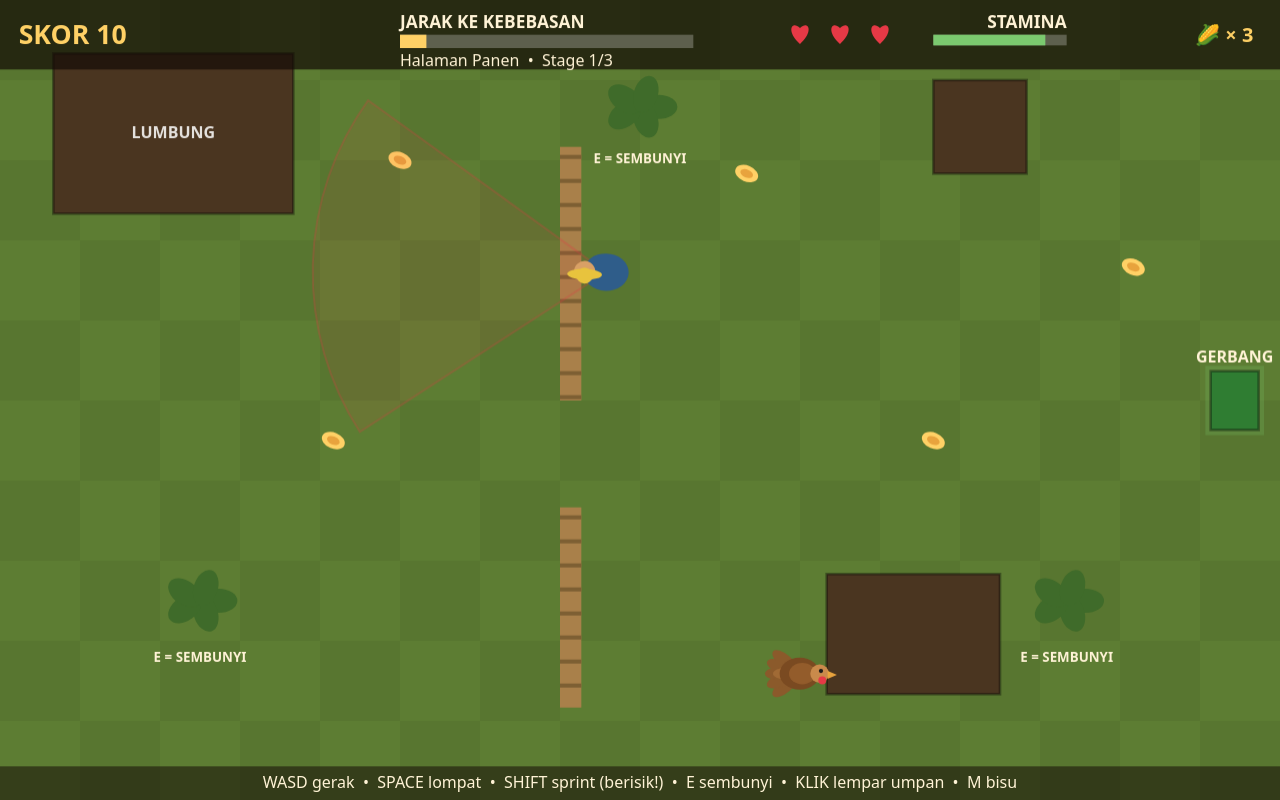
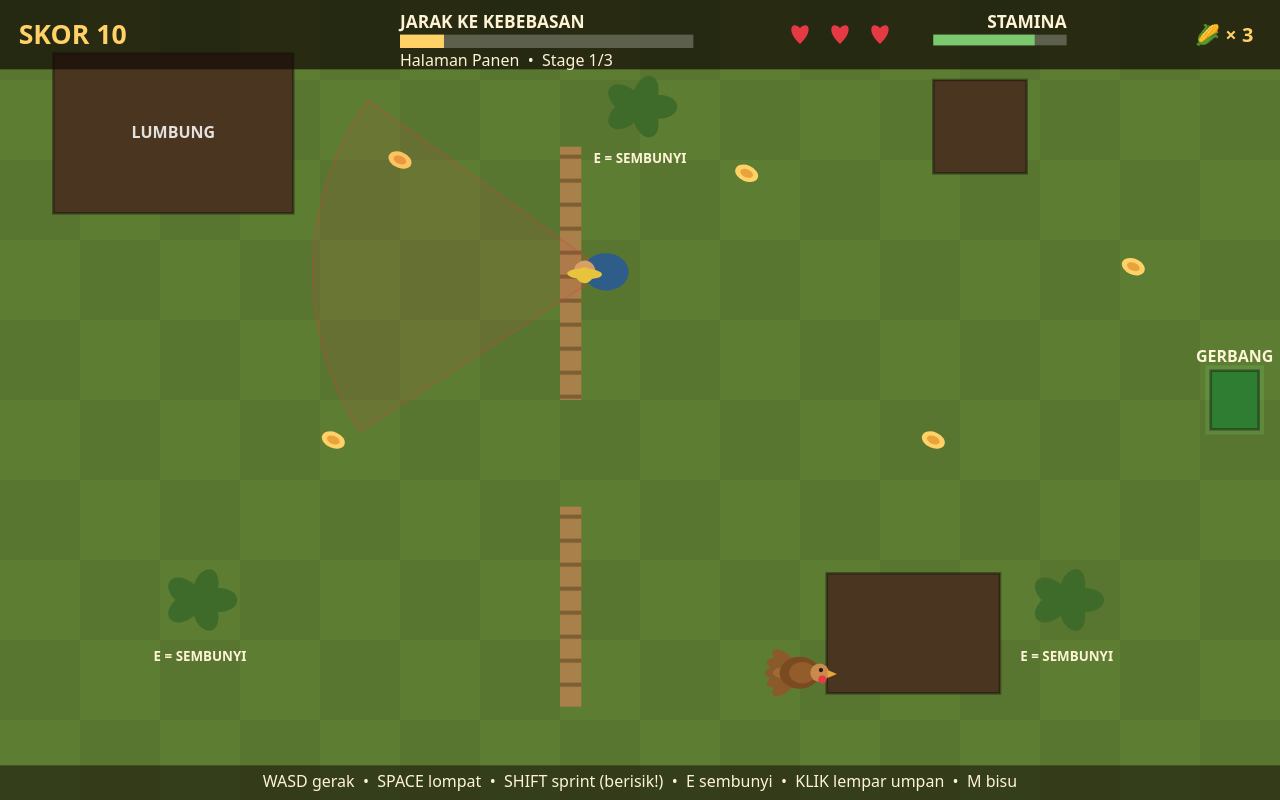
Fix review findings I1/I2/I3 + M1/M2/M3/M5/M6/M7
- I1: CHASE_SPEED 150 -> 190 (jalan 170 < kejar < sprint 260)
- I2: updateWorld kembalikan event gameplay; main.js petakan ke SFX
  (spotted/hurt/caught/stageClear/success/knife/oven/creak) + partikel
- I3: hapus jalur regen ganda; stamina diam 1 dtk 50 -> 70 (uji eksak)
- M1: hitbox pisau = posisi bilah, bukan seluruh zona
- M2: petani di shot dapur pindah ke (600,260), luar dinding pulau
- M3: freedomProgress capai 1.0 di pintu stage 3
- M4: partikel pakai mulberry32; spawn di event corn/hurt/caught
- M5: hapus &seed=1 dari shots.json; M6: pendingThrow pindah ke atas;
  M7: serve.ts tolak path traversal; M8: komentar umpan per-stage
- Uji: 33 -> 42 (semua hijau, ditulis gagal dulu baru diperbaiki)

diff --git a/game/src/world.js b/game/src/world.js
@@ -71,7 +71,8 @@ function pushMessage(w, text) {
 }
 
 function hurtTurkey(w, cause) {
-  if (w.invulnTimer > 0 || w.screen !== 'play') return;
+  if (w.invulnTimer > 0 || w.screen !== 'play') return null;
+  const type = cause === 'caught' ? 'caught' : 'hurt';
   w.lives -= 1;
   w.hurtThisStage = true;
   w.stats.hurt = true;
@@ -79,9 +80,11 @@ function hurtTurkey(w, cause) {
   if (w.lives <= 0) {
     w.screen = 'gameover';
     w.medals = computeMedals(w, false);
-    return;
+    return { type, x: w.turkey.x, y: w.turkey.y };
   }
   // Respawn di awal stage yang sama, petani kembali patroli.
+  // Umpan sengaja TIDAK diisi ulang saat respawn — jatah umpan per-stage,
+  // diisi ulang hanya di startStage.
   const def = w.stage.def;
   w.turkey.x = def.spawn.x;
   w.turkey.y = def.spawn.y;
@@ -92,6 +95,7 @@ function hurtTurkey(w, cause) {
   w.invulnTimer = INVULN_AFTER_HIT;
   w.exitChannel = 0;
   w.bait = null;
+  return { type, x: def.spawn.x, y: def.spawn.y };
 }
 
 function computeMedals(w, escaped) {
@@ -111,32 +115,55 @@ function completeStage(w) {
     w.screen = 'escaped';
     w.medals = computeMedals(w, true);
     w.best = Math.max(w.best, w.score);
-    return;
+    return { type: 'success' };
   }
   pushMessage(w, `${w.stage.def.name} dilewati! +${STAGE_BONUS + timeBonus}`);
   startStage(w, w.stageIndex + 1);
+  return { type: 'stageClear' };
 }
 
+/**
+ * Majukan bahaya berkala. Mengembalikan event saat hazard mulai aktif:
+ * {type:'knife'} saat pisau masuk fase sweep, {type:'oven'} saat oven
+ * masuk fase burst — supaya main.js bisa membunyikan SFX-nya.
+ */
 function updateHazard(w, dt) {
   const hz = w.stage.def.hazards.knife || w.stage.def.hazards.oven;
-  if (!hz) return;
+  if (!hz) return null;
   const h = w.stage.hazard;
   h.timer += dt;
   const idle = hz.idle;
   const tele = hz.telegraph;
   const act = hz.sweep ?? hz.burst;
   if (h.phase === 'idle' && h.timer >= idle) { h.phase = 'telegraph'; h.timer = 0; }
-  else if (h.phase === 'telegraph' && h.timer >= tele) { h.phase = hz.sweep ? 'sweep' : 'burst'; h.timer = 0; }
+  else if (h.phase === 'telegraph' && h.timer >= tele) {
+    h.phase = hz.sweep ? 'sweep' : 'burst';
+    h.timer = 0;
+    return { type: hz.sweep ? 'knife' : 'oven' };
+  }
   else if ((h.phase === 'sweep' || h.phase === 'burst') && h.timer >= act) { h.phase = 'idle'; h.timer = 0; }
+  return null;
+}
+
+/** Posisi bilah pisau saat ini — rumus yang sama dengan render (drawHazards). */
+export function knifeBladeX(w) {
+  const def = w.stage.def;
+  const z = def.hazards.knife.zone;
+  const p = Math.min(1, w.stage.hazard.timer / def.hazards.knife.sweep);
+  return z.x + p * (z.w - 30);
 }
 
 function hazardHitsTurkey(w) {
   const def = w.stage.def;
   const h = w.stage.hazard;
   if (h.phase === 'sweep' && def.hazards.knife) {
+    // Hitbox = posisi bilah, bukan seluruh zona: hanya kena bila kalkun
+    // dekat bilah (bx) dan masih di lajur zona secara vertikal.
     const z = def.hazards.knife.zone;
-    const inZone = w.turkey.x > z.x && w.turkey.x < z.x + z.w && w.turkey.y > z.y && w.turkey.y < z.y + z.h;
-    return inZone && w.turkey.jumping <= 0;
+    const bx = knifeBladeX(w);
+    const nearBlade = Math.abs(w.turkey.x - bx) < 30;
+    const inLane = w.turkey.y > z.y && w.turkey.y < z.y + z.h;
+    return nearBlade && inLane && w.turkey.jumping <= 0;
   }
   if (h.phase === 'burst' && def.hazards.oven) {
     const z = def.hazards.oven.zone;
@@ -151,9 +178,15 @@ function turkeyInExit(w) {
     && w.turkey.y > e.y - 6 && w.turkey.y < e.y + e.h + 6;
 }
 
-/** Majukan dunia satu langkah. `input`: {mx,my,sprint,jump,hide,throwAt}. */
+/**
+ * Majukan dunia satu langkah. `input`: {mx,my,sprint,jump,hide,throwAt}.
+ * Mengembalikan event gameplay langkah ini — main.js memetakannya ke suara
+ * dan efek: spotted, lost, investigating, done-investigating, bait, corn,
+ * knife, oven, hurt, caught, creak, stageClear, success.
+ */
 export function updateWorld(w, input, dt) {
   if (w.screen !== 'play') return [];
+  const events = [];
   w.time += dt;
   w.stage.stageTime += dt;
   if (w.invulnTimer > 0) w.invulnTimer -= dt;
@@ -174,6 +207,7 @@ export function updateWorld(w, input, dt) {
       w.bait = { x: ev.x, y: ev.y };
       w.baitTimer = 12;
       pushMessage(w, 'Umpan dilempar — petani mengendus!');
+      events.push({ type: 'bait', x: ev.x, y: ev.y });
     }
   }
   if (w.baitTimer > 0) {
@@ -189,6 +223,7 @@ export function updateWorld(w, input, dt) {
     turkey: w.turkey, walls: farmerWalls, bait: w.bait, noise,
   });
   for (const ev of fEvents) {
+    events.push(ev);
     if (ev.type === 'spotted') {
       w.spottedThisStage = true;
       w.stats.spotted = true;
@@ -205,27 +240,36 @@ export function updateWorld(w, input, dt) {
       w.stage.cornTaken[i] = true;
       w.score += CORN_SCORE;
       w.stats.corn += 1;
+      events.push({ type: 'corn', x: c.x, y: c.y });
     }
   });
 
-  updateHazard(w, dt);
-  if (hazardHitsTurkey(w)) hurtTurkey(w, 'hazard');
-  if (w.screen !== 'play') return [];
+  const hzEvent = updateHazard(w, dt);
+  if (hzEvent) events.push(hzEvent);
+  if (hazardHitsTurkey(w)) {
+    const hurtEvent = hurtTurkey(w, 'hazard');
+    if (hurtEvent) events.push(hurtEvent);
+  }
+  if (w.screen !== 'play') return events;
 
   // Ditangkap petani saat bersentuhan (kecuali sedang kebal / sembunyi).
   const fd = Math.hypot(w.farmer.x - w.turkey.x, w.farmer.y - w.turkey.y);
-  if (fd < CATCH_DISTANCE && !w.turkey.hidden) hurtTurkey(w, 'caught');
-  if (w.screen !== 'play') return [];
+  if (fd < CATCH_DISTANCE && !w.turkey.hidden) {
+    const hurtEvent = hurtTurkey(w, 'caught');
+    if (hurtEvent) events.push(hurtEvent);
+  }
+  if (w.screen !== 'play') return events;
 
   // Pintu keluar: stage 1 langsung, stage 2-3 butuh menahan (berderit!).
   if (turkeyInExit(w)) {
     const channel = def.exit.channel;
     if (channel === 0) {
-      completeStage(w);
-      return [];
+      events.push(completeStage(w));
+      return events;
     }
     if (!w.creakDone) {
       w.creakDone = true;
+      events.push({ type: 'creak' });
       pushMessage(w, 'Pintu berderit... jangan sampai ketahuan!');
       const ed = Math.hypot(w.farmer.x - def.exit.x, w.farmer.y - def.exit.y);
       if (ed < 320 && w.farmer.state !== 'chase') {
@@ -236,14 +280,14 @@ export function updateWorld(w, input, dt) {
     }
     w.exitChannel += dt;
     if (w.exitChannel >= channel) {
-      completeStage(w);
-      return [];
+      events.push(completeStage(w));
+      return events;
     }
   } else {
     w.exitChannel = 0;
     w.creakDone = false;
   }
-  return [];
+  return events;
 }
 
 /** Kemajuan menuju kebebasan 0..1 untuk HUD "Jarak ke Kebebasan". */
@@ -252,5 +296,5 @@ export function freedomProgress(w) {
   const e = w.stage.def.exit;
   const d = Math.hypot(w.turkey.x - (e.x + e.w / 2), w.turkey.y - (e.y + e.h / 2));
   const near = Math.max(0, 1 - d / 700);
-  return Math.min(1, (w.stageIndex + near * 0.6) / STAGES.length);
+  return Math.min(1, (w.stageIndex + near) / STAGES.length);
 }

diff --git a/game/src/main.js b/game/src/main.js
@@ -2,7 +2,7 @@
 // loop game, dan mode ?shot= untuk screenshot deterministik.
 import { createWorld, startGame, updateWorld } from './world.js';
 import { render, VIEW_W, VIEW_H } from './render.js';
-import { audio, updateEffects } from './feedback.js';
+import { audio, updateEffects, spawnParticles, spawnFloatText } from './feedback.js';
 import { stageShot } from './shots.js';
 import { START_BUTTON, RESTART_BUTTON } from './screens.js';
 
@@ -17,6 +17,7 @@ canvas.height = SCALE_H;
 const world = createWorld();
 const keys = new Set();
 let mouse = { x: 0, y: 0 };
+let pendingThrow = null;
 let shotMode = null;
 
 function toLogical(clientX, clientY) {
@@ -76,8 +77,35 @@ canvas.addEventListener('click', (ev) => {
   }
 });
 
-let pendingThrow = null;
 let last = performance.now();
+
+/** Petakan event gameplay (dari updateWorld) ke suara + efek visual. */
+function playEvent(ev) {
+  switch (ev.type) {
+    case 'spotted': audio.alert(); break;
+    case 'hurt':
+      audio.hurt();
+      spawnParticles(ev.x, ev.y, '#e63946', 12);
+      spawnFloatText(ev.x, ev.y - 24, 'ADUH!', '#e63946');
+      break;
+    case 'caught':
+      audio.caught();
+      spawnParticles(ev.x, ev.y, '#e63946', 16);
+      spawnFloatText(ev.x, ev.y - 24, 'TERTANGKAP!', '#e63946');
+      break;
+    case 'stageClear': audio.stageClear(); break;
+    case 'success': audio.success(); break;
+    case 'knife': audio.knife(); break;
+    case 'oven': audio.oven(); break;
+    case 'creak': audio.creak(); break;
+    case 'corn':
+      spawnParticles(ev.x, ev.y, '#ffd166', 10);
+      spawnFloatText(ev.x, ev.y - 20, '+10', '#ffd166');
+      break;
+    case 'bait': audio.gobble(); break;
+    default: break;
+  }
+}
 
 function frame(now) {
   const dt = Math.min(0.05, (now - last) / 1000);
@@ -85,7 +113,8 @@ function frame(now) {
   if (world.screen === 'play') {
     const input = readInput();
     if (pendingThrow) { input.throwAt = pendingThrow; pendingThrow = null; }
-    updateWorld(world, input, dt);
+    const events = updateWorld(world, input, dt);
+    for (const ev of events) playEvent(ev);
     updateEffects(dt);
   }
   ctx.save();

diff --git a/serve.ts b/serve.ts
@@ -2,10 +2,11 @@
 // Node 22, stdlib saja. Jalankan: node serve.ts
 import { createServer } from 'node:http';
 import { readFile } from 'node:fs/promises';
-import { join, extname } from 'node:path';
+import { join, extname, resolve, sep } from 'node:path';
 import { fileURLToPath } from 'node:url';
 
 const here = fileURLToPath(new URL('.', import.meta.url));
+const GAME_ROOT = join(here, 'game');
 const MIME = {
   '.html': 'text/html; charset=utf-8',
   '.js': 'text/javascript; charset=utf-8',
@@ -18,8 +19,15 @@ const MIME = {
 
 const server = createServer(async (req, res) => {
   try {
-    const path = req.url.split('?')[0] === '/' ? '/index.html' : req.url.split('?')[0];
-    const file = join(here, 'game', decodeURIComponent(path));
+    const raw = req.url.split('?')[0];
+    const rel = raw === '/' ? '/index.html' : raw;
+    // Tolak path traversal: resolve lalu verifikasi hasil tetap di bawah game/.
+    const file = resolve(GAME_ROOT, `.${decodeURIComponent(rel)}`);
+    if (file !== GAME_ROOT && !file.startsWith(GAME_ROOT + sep)) {
+      res.writeHead(404, { 'content-type': 'text/plain' });
+      res.end('not found');
+      return;
+    }
     const data = await readFile(file);
     res.writeHead(200, { 'content-type': MIME[extname(file)] ?? 'application/octet-stream' });
     res.end(data);

diff --git a/game/src/feedback.js b/game/src/feedback.js
@@ -1,6 +1,7 @@
 // Umpan balik pemain: HUD (skor / jarak ke kebebasan / nyawa / stamina),
 // suara orisinal dari WebAudio (tanpa file eksternal), partikel & teks melayang.
 import { freedomProgress } from './world.js';
+import { mulberry32 } from './rng.js';
 
 let audioCtx = null;
 let muted = false;
@@ -66,14 +67,17 @@ export const audio = {
 };
 
 // ---- partikel & teks melayang (kosmetik, seed tetap saat screenshot) ----
+// RNG ber-seed (mulberry32) supaya pola partikel deterministik dari seed yang
+// sama — bukan Math.random yang tak bisa diulang.
+let effectsRng = mulberry32(20261127);
 const particles = [];
 const floats = [];
 
 export function spawnParticles(x, y, color, n) {
   for (let i = 0; i < n; i += 1) {
-    const a = Math.random() * Math.PI * 2;
-    const s = 30 + Math.random() * 90;
-    particles.push({ x, y, vx: Math.cos(a) * s, vy: Math.sin(a) * s - 30, life: 0.6 + Math.random() * 0.4, t: 0, color });
+    const a = effectsRng() * Math.PI * 2;
+    const s = 30 + effectsRng() * 90;
+    particles.push({ x, y, vx: Math.cos(a) * s, vy: Math.sin(a) * s - 30, life: 0.6 + effectsRng() * 0.4, t: 0, color });
   }
 }
 

diff --git a/game/src/shots.js b/game/src/shots.js
@@ -40,12 +40,14 @@ export function stageShot(name, world) {
     return { screen: 'play', best: world.score };
   }
   if (name === 'kitchen') {
-    // Dapur: kalkun dekat oven, petani MENGEJAR ("!"), oven hampir menyembur.
+    // Dapur: kalkun dekat oven, petani MENGEJAR ("!"), oven menyembur.
+    // Petani di (600,260): ruang terbuka di kanan pulau dapur (x 380-580),
+    // garis pandang bersih ke kalkun — bukan di dalam dinding.
     startStage(world, 2);
     world.invulnTimer = 0;
     world.turkey.x = 730;
     world.turkey.y = 260;
-    world.farmer.x = 560;
+    world.farmer.x = 600;
     world.farmer.y = 260;
     world.farmer.angle = 0;
     world.farmer.state = 'chase';

diff --git a/game/src/turkey.js b/game/src/turkey.js
@@ -70,10 +70,8 @@ export function updateTurkey(t, input, dt, stage) {
     t.x = moved.x;
     t.y = moved.y;
   } else if (!input.sprint) {
-    t.stamina = Math.min(100, t.stamina + STAMINA_REGEN * dt);
-  }
-
-  if (!moving) {
+    // Diam (tidak bergerak, tidak menahan sprint): pulih 20/dtk — SATU-SATUNYA
+    // jalur regen. Jalan kaki tanpa sprint sengaja tidak regen (dikunci uji I3).
     t.stamina = Math.min(100, t.stamina + STAMINA_REGEN * dt);
   }
 

diff --git a/game/src/farmerAI.js b/game/src/farmerAI.js
@@ -11,7 +11,7 @@ export const LOSE_DELAY = 2.5;
 export const SEARCH_TIME = 3;
 export const INVESTIGATE_TIME = 2;
 export const PATROL_SPEED = 70;
-export const CHASE_SPEED = 150;
+export const CHASE_SPEED = 190; // > jalan kalkun (170), < sprint (260): kejar bisa menutup jarak
 export const SEARCH_SPEED = 110;
 export const FARMER_RADIUS = 18;
 

diff --git a/README.md b/README.md
@@ -29,7 +29,7 @@ stage, medali replay: tanpa terlihat, tanpa terluka, kabur cepat.
 - `game/src/screens.js` — title & layar akhir
 - `game/src/feedback.js` — HUD, suara WebAudio, partikel
 - `game/src/shots.js` — adegan screenshot deterministik (`?shot=`)
-- `tests/logic.test.mjs` — 33 uji logika (`node --test tests/logic.test.mjs`)
+- `tests/logic.test.mjs` — 42 uji logika (`node --test tests/logic.test.mjs`)
 
 Entry untuk kompetisi [turkey-run-game-01](https://make.fun/c/turkey-run-game-01/)
 di make.fun. Lisensi MIT.
